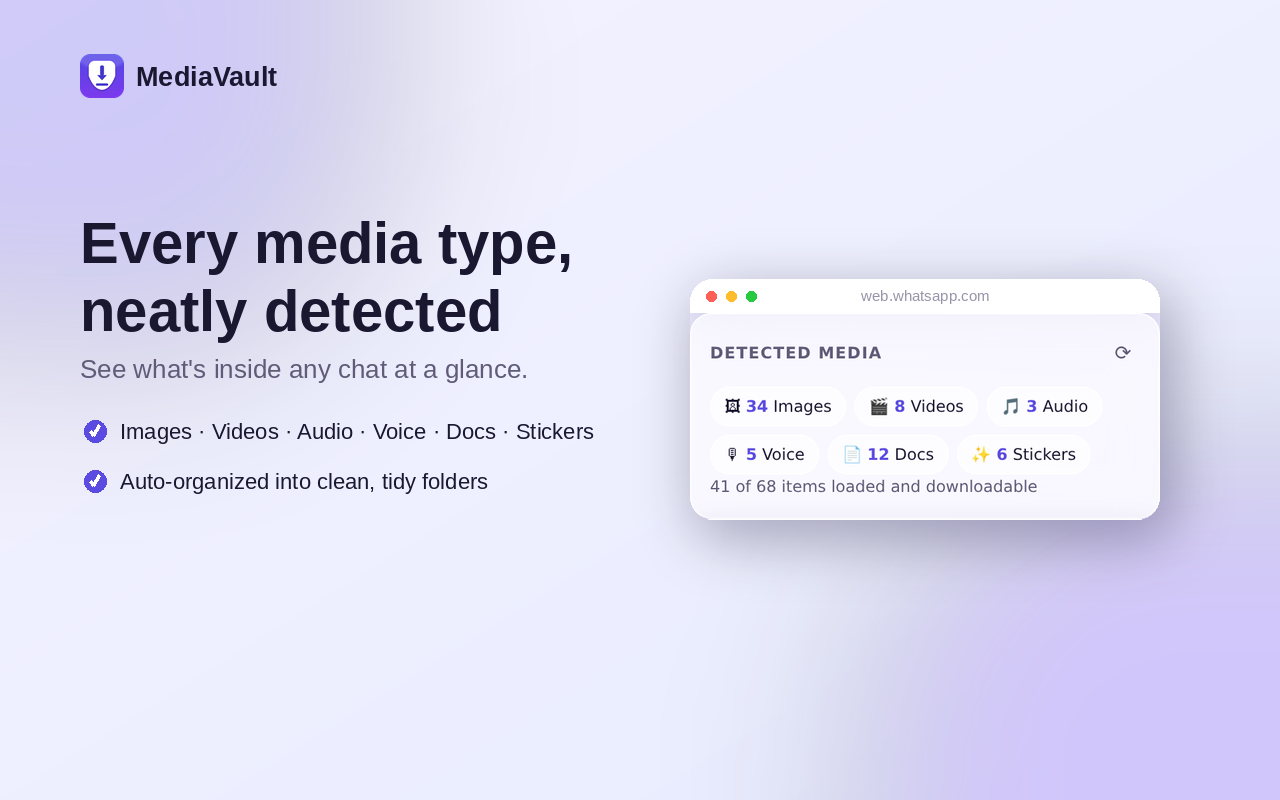
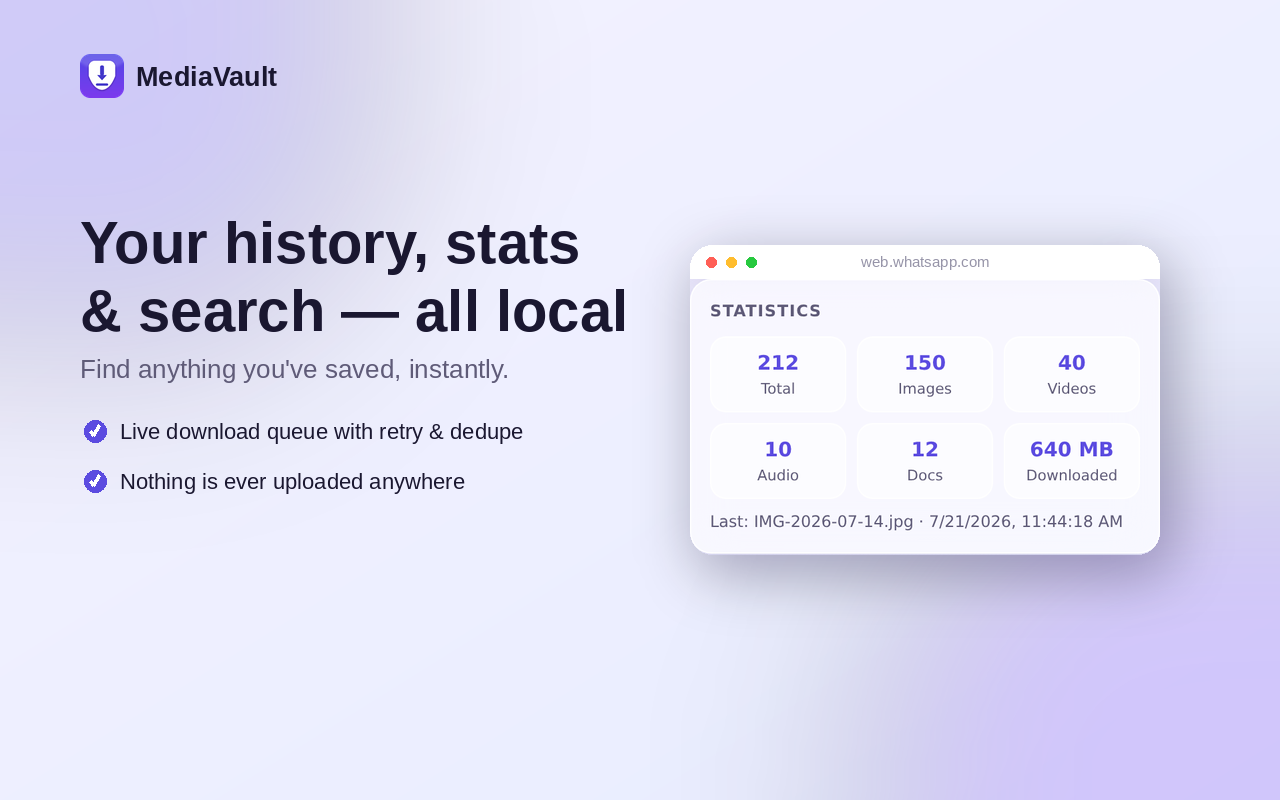
Make v1 fully free (no paywall) + one comprehensive SUBMISSION.md
Simplifies the launch to: publish a 100%-free build first, add the paid
version later.

- Add a `paid` build flag (utils/config.js). v1 = engine off + paid off:
  no account/upgrade card, no Pro locks, no download limit, and the manifest
  drops the Gumroad host permission (v1 asks for only downloads/storage/
  activeTab/tabs/notifications on web.whatsapp.com).
- background.js skips the quota gate when the build is unpaid; popup/options
  hide all monetization UI and unlock every feature when paid=false.
- build.sh: v1 = free build (1.0.0), v2 = paid engine build (2.0.0).
- manifest name/description no longer claim chat-transcript export (a v2-only
  feature), so the free v1 listing matches the shipped build.
- Regenerate v1-accurate store screenshots + promo/marquee (no pricing, no
  engine); archive the v2 graphics under store/screenshots-v2 / promo-v2.
- SUBMISSION.md: single start-here guide with every field inline, asset links,
  and a simplified payment recommendation (ExtensionPay or Dodo Payments) for
  the later paid version. README/LAUNCH point to it.

Claude-Session: https://claude.ai/code/session_014Q5UmM4KFZFXDrzMgHM8m1

diff --git a/utils/config.js b/utils/config.js
@@ -5,14 +5,18 @@
  *
  * MediaVault ships in two builds from one codebase (see build.sh):
  *
- *   v2 (full)     engine = true  — includes the WhatsApp-engine mode
- *                 (whole-history export, ZIP, chat-text export) which
- *                 uses WhatsApp's internal APIs.
- *   v1 (DOM-only) engine = false — only the rendered-DOM features
- *                 (single/bulk downloads, auto-scroll, filters). The
- *                 engine files, the `scripting` permission and the
- *                 web-accessible resources are omitted from the package,
- *                 and the "Download by chat" card is hidden.
+ *   v1 (free)  engine = false, paid = false
+ *              The DOM-only, 100% free build submitted to the store
+ *              first. No WhatsApp-engine mode and no paywall: the
+ *              engine files, the `scripting` permission, the Gumroad
+ *              host permission and the web-accessible resources are all
+ *              omitted, the "Download by chat" card is hidden, and every
+ *              feature is unlocked with no download limit.
+ *
+ *   v2 (pro)   engine = true, paid = true
+ *              Adds the WhatsApp-engine mode (whole-history export, ZIP,
+ *              chat-text export — uses WhatsApp's internal APIs) and the
+ *              freemium paywall (50 free downloads, then Pro).
  *
  * build.sh regenerates this file per target; the value committed here
  * is the full (v2) default used when the repo is loaded unpacked.
@@ -25,6 +29,7 @@
   root.WAMD = root.WAMD || {};
   root.WAMD.config = {
     engine: true,
+    paid: true,
     proFeaturesShort: 'whole-chat export, ZIP, filters & more',
     proFeaturesLong: 'whole-chat history export, Save-as-ZIP, chat text (.txt) ' +
       'export, date & sender filters, auto-scroll loading, folder organisation ' +

diff --git a/background.js b/background.js
@@ -20,11 +20,12 @@
 'use strict';
 
 // Shared classic-script modules (same files the content script uses).
-importScripts('utils/helpers.js', 'utils/storage.js', 'utils/license.js');
+importScripts('utils/helpers.js', 'utils/storage.js', 'utils/license.js', 'utils/config.js');
 
 const helpers = globalThis.WAMD.helpers;
 const store = globalThis.WAMD.storage;
 const license = globalThis.WAMD.license;
+const cfg = globalThis.WAMD.config;
 
 /** Maximum automatic retry attempts per failed item. */
 const MAX_RETRIES = 3;
@@ -95,7 +96,8 @@ async function enqueue(payload) {
   // unlimited and never counted). Over the limit → refuse and prompt upgrade.
   // Batch accounting for refused items is handled by the caller, which stops
   // the batch and adjusts its total — so we don't touch the batch here.
-  const slot = await reserveSlot();
+  // The fully-free (v1) build has no paywall, so downloads are never gated.
+  const slot = cfg.paid ? await reserveSlot() : { ok: true, pro: true };
   if (!slot.ok) {
     notifyQuota(settings, slot);
     broadcastQueue();

diff --git a/popup/popup.js b/popup/popup.js
@@ -64,6 +64,15 @@
 
   /** Pull the licence/quota status from the background and render it. */
   async function refreshLicense() {
+    // Fully-free (v1) build: no paywall at all — hide the upgrade card and
+    // unlock every feature with no download limit.
+    if (!config.paid) {
+      $('account-card').classList.add('hidden');
+      $('plan-tag').hidden = true;
+      proState = { pro: true, used: 0, limit: 0, remaining: Infinity, plan: 'free' };
+      applyProLocks();
+      return;
+    }
     const res = await send({ type: 'WAMD_LICENSE_STATUS' });
     if (res && res.ok) proState = res.result;
     renderAccount();

diff --git a/options/options.js b/options/options.js
@@ -45,6 +45,12 @@
 
   /** Load the licence status and render the Pro card + feature locks. */
   async function refreshLicense() {
+    // Fully-free (v1) build: no paywall — hide the Pro card, unlock settings.
+    if (!config.paid) {
+      $('pro-card').classList.add('hidden');
+      applyProLocks(true);
+      return;
+    }
     const res = await send({ type: 'WAMD_LICENSE_STATUS' });
     const s = (res && res.ok) ? res.result : { pro: false, used: 0, limit: license.FREE_LIMIT };
     renderLicense(s);

diff --git a/SUBMISSION.md b/SUBMISSION.md
@@ -1,0 +1,207 @@
+# MediaVault — Start-Here Submission Guide
+
+**The simple plan:** ship a **100% free** version to the Chrome Web Store now.
+No payments, no license, nothing to configure. Once it's approved and live, we
+add the premium version as an update. That's it.
+
+- **Now → Part 1:** publish the free build. ~45 minutes + Google's review.
+- **Later → Part 2:** add the paid engine version. Nothing to do today.
+
+Everything you need is in this repo. This document has every field, and where to
+find every image.
+
+---
+
+## Part 1 — Publish the FREE version (do this now)
+
+### What you're uploading
+
+**File:** `dist/mediavault-v1-v1.0.0.zip` — built by running `./build.sh v1`
+(or `./build.sh` to build both). It's the free, DOM-only build: it only asks for
+5 basic permissions on `web.whatsapp.com`, has no paywall, and every feature is
+free. This is the lowest-risk thing you can submit.
+
+> Rebuild anytime with `./build.sh v1`. The zip is also attached in chat.
+
+### Step 1 — Create your developer account (one time)
+
+1. Go to **https://chrome.google.com/webstore/devconsole**
+2. Pay the **one-time $5** registration fee.
+3. Set a **support email** (it shows on the listing).
+
+### Step 2 — Upload & fill the listing
+
+Click **New item → upload `dist/mediavault-v1-v1.0.0.zip`**, then paste:
+
+**Store title** (this comes from the zip automatically, no need to type):
+```
+MediaVault - WhatsApp Web Media Downloader
+```
+
+**Summary / short description** (also auto-filled from the zip; 132-char max):
+```
+Download & back up images, videos, voice notes, audio, documents, GIFs and stickers from WhatsApp Web. Fast, private, on-device.
+```
+
+**Category:** `Productivity`  **Language:** `English`
+
+**Detailed description** — paste this:
+```
+MediaVault is the fastest, most private way to save and back up your own media from WhatsApp Web — images, videos, voice notes, audio, documents, GIFs and stickers.
+
+No more right-click-save on one photo at a time. Open web.whatsapp.com, click the MediaVault icon, and save everything in the open chat at once — completely free.
+
+★ WHAT YOU CAN DO
+• Download images, videos, voice notes, audio, documents, GIFs & stickers
+• One-click save from the full-screen media viewer
+• Bulk-download the open chat, filtered by date range or by sender
+• Auto-scroll a conversation to load and save older media hands-free
+• Auto-organize files into tidy folders: WhatsApp / Chat / Images, Videos, …
+• Smart duplicate detection so you never save the same file twice
+• A live download queue with progress, retry and cancel
+• Searchable history and download statistics
+• Beautiful light & dark themes
+
+★ WHY MEDIAVAULT
+• Private by design — your messages and media never leave your device. No servers, no analytics, no tracking.
+• On-device processing — files go straight from your WhatsApp Web tab to your Downloads folder.
+• Lightweight, fast, and free — no account required.
+
+★ HOW IT WORKS
+1. Install MediaVault and open web.whatsapp.com (log in as usual).
+2. Click the MediaVault toolbar icon.
+3. Save single items from the viewer, or bulk-download the whole open chat.
+4. Files land in your Downloads folder, neatly named and organized.
+
+★ PRIVACY
+MediaVault does all its work locally in your browser. It does not upload, read, store or transmit your conversations anywhere. It makes no external network requests.
+
+★ GOOD TO KNOW
+MediaVault is an independent tool and is not affiliated with, endorsed by, or sponsored by WhatsApp LLC or Meta Platforms, Inc. "WhatsApp" is a trademark of its respective owner, used only to describe compatibility. Please back up your own conversations and respect other people's privacy and WhatsApp's Terms of Service.
+```
+
+**Single-purpose description** — paste this:
+```
+MediaVault has a single purpose: to let users download and back up their own media (images, videos, audio, voice notes, documents, GIFs, stickers) from WhatsApp Web to their local device.
+```
+
+### Step 3 — Graphics (drag-and-drop from these folders)
+
+| What | Where | Size |
+|---|---|---|
+| Screenshots (upload all 4) | `store/screenshots/screenshot_1..4.png` | 1280×800 |
+| Small promo tile | `store/promo/promo_tile_440x280.png` | 440×280 |
+| Marquee promo tile | `store/promo/marquee_1400x560.png` | 1400×560 |
+| Store icon | already inside the zip (`icon128.png`) | 128×128 |
+
+Optional screenshot captions:
+1. Bulk-download any WhatsApp media in one click
+2. Every media type, neatly detected
+3. Your history, stats & search — all local
+4. Private by design — nothing leaves your device
+
+### Step 4 — Permissions justifications
+
+The dashboard asks why you need each permission. Paste these:
+
+| Permission | Justification |
+|---|---|
+| `downloads` | Save the user's selected media to their computer via the browser's download manager. |
+| `storage` | Store the user's settings and local download history/statistics. |
+| `activeTab` / `tabs` | Find the user's open WhatsApp Web tab so the popup can request media from it. |
+| `notifications` | Optional desktop alerts when downloads complete, fail or a batch finishes. |
+| Host `https://web.whatsapp.com/*` | The only site the extension reads media from; it runs nowhere else. |
+
+> The free build asks for **nothing else** — no `scripting`, no payment host, no
+> remote code.
+
+### Step 5 — Privacy
+
+1. **Privacy policy URL** (required): publish `PRIVACY.md` on a public page and
+   paste the link. Easiest options:
+   - GitHub Pages: Settings → Pages → enable, then link to the rendered file; or
+   - paste `PRIVACY.md` into a public GitHub Gist and use its URL.
+2. **Privacy practices tab** — answer:
+   - Data collected? **None.** MediaVault processes media locally and sends
+     nothing to any server.
+   - Selling/transferring data to third parties? **No.**
+   - Using data unrelated to the single purpose? **No.**
+   - Remote code? **No** — all code is in the package.
+
+### Step 6 — Submit
+
+Click **Submit for review**. Reviews take a few business days.
+
+If it's rejected, the email cites the exact policy. The two most common fixes:
+trademark wording in the title (alternatives are in `store/listing.md`) or a
+permission justification. Tweak and resubmit — no code change needed.
+
+**✅ That's the whole free launch. You're done until it's approved.**
+
+---
+
+## Part 2 — Add the paid version (LATER, after v1 is live)
+
+Nothing to do now. When you're ready to earn from it:
+
+1. I build the paid version: `./build.sh v2` → `dist/mediavault-v2-v2.0.0.zip`.
+   It adds whole-chat history export, ZIP, chat-text (.txt) export, and a simple
+   paywall (some downloads free, then a one-time or monthly upgrade).
+2. You upload it as an **update to the same store item** (Package → new version),
+   and switch the listing to the v2 description/screenshots (archived for you in
+   `store/screenshots-v2/` and `store/listing.md`).
+3. You connect a payment provider (below). I wire it — it's a small change.
+
+### Payment gateway — the two easy options
+
+You don't need Gumroad's complicated setup. Pick **one** when the time comes:
+
+**Option A — ExtensionPay  (easiest for your customers)**
+- The customer clicks "Upgrade" **inside the extension**, pays, and it unlocks
+  instantly. **No license keys to copy or paste.**
+- Built specifically for Chrome extensions, so it's the least code for me to wire.
+- You connect a Stripe account; you're the merchant (you handle your own tax —
+  fine at small scale).
+- Best if you want the smoothest possible customer experience.
+
+**Option B — Dodo Payments  (easiest for you, zero tax hassle)**
+- A "Merchant of Record" — **Dodo handles global sales tax/VAT for you**, so you
+  never deal with tax compliance.
+- Simple hosted checkout link + a licence key the customer pastes once in
+  Settings (already built in the paid build).
+- Modern, developer-friendly API; similar to Lemon Squeezy/Paddle.
+- Best if you want to sell worldwide with zero paperwork.
+
+**My recommendation:** start with **ExtensionPay** for the frictionless customer
+flow (no keys). If handling tax yourself ever becomes a worry as sales grow,
+switch to **Dodo Payments** — the code is written so swapping providers is a
+small, isolated change.
+
+> When you're ready, just tell me "wire ExtensionPay" (or Dodo) and which price
+> (e.g. one-time $24.99, or $4.99/month). I'll do the rest and rebuild.
+
+---
+
+## File map (everything, at a glance)
+
+```
+dist/mediavault-v1-v1.0.0.zip     ← FREE build — upload this now
+dist/mediavault-v2-v2.0.0.zip     ← PAID build — for later
+
+store/screenshots/                ← v1 screenshots (upload these now)
+store/promo/                      ← v1 promo tile + marquee (now)
+store/screenshots-v2/  · promo-v2/← v2 graphics (for the update later)
+store/listing.md                  ← all listing copy (v1 + v2 variants)
+store/gumroad/                    ← Gumroad page assets (only if you use Gumroad)
+
+PRIVACY.md                        ← privacy policy (host it, link it)
+assets/icons/                     ← 16/32/48/128/512 icons
+build.sh                          ← ./build.sh v1  |  v2  |  (both)
+```
+
+Build commands:
+```bash
+./build.sh v1     # free build  → dist/mediavault-v1-v1.0.0.zip
+./build.sh v2     # paid build  → dist/mediavault-v2-v2.0.0.zip
+./build.sh        # both
+```

diff --git a/store/listing.md b/store/listing.md
@@ -43,19 +43,22 @@ English (add more locales later for reach).
 
 ---
 
-> **Two-phase submission.** Submit the **v1 (DOM-only)** package first with the
-> **v1 description** below (it doesn't advertise the engine-only features that
-> aren't in the v1 build — reviewers flag listing/feature mismatches). When the
+> **Start here:** the simple, step-by-step submission guide with all copy inline
+> is **`SUBMISSION.md`** in the repo root. This file is the reference for both
+> the free **v1** and the paid **v2** listings.
+>
+> **Two-phase submission.** Submit the **free v1** package first with the **v1
+> description** below (it advertises only what the free build does — no pricing,
+> no engine-only features; reviewers flag listing/feature mismatches). When the
 > **v2** package is approved as an update, swap in the full description that
-> follows. Everything else in this file (title, permissions, privacy) is the
-> same for both.
+> follows. Title, permissions and privacy are otherwise the same.
 
-## Detailed description — v1 (DOM-only, first submission)
+## Detailed description — v1 (free, first submission)
 
 ```
 MediaVault is the fastest, most private way to save and back up your own media from WhatsApp Web — images, videos, voice notes, audio, documents, GIFs and stickers.
 
-No more right-click-save on one photo at a time. Open web.whatsapp.com, click the MediaVault icon, and grab everything in the open chat at once.
+No more right-click-save on one photo at a time. Open web.whatsapp.com, click the MediaVault icon, and save everything in the open chat at once — completely free.
 
 ★ WHAT YOU CAN DO
 • Download images, videos, voice notes, audio, documents, GIFs & stickers
@@ -71,17 +74,18 @@ No more right-click-save on one photo at a time. Open web.whatsapp.com, click th
 ★ WHY MEDIAVAULT
 • Private by design — your messages and media never leave your device. No servers, no analytics, no tracking.
 • On-device processing — files go straight from your WhatsApp Web tab to your Downloads folder.
-• Lightweight and fast — no account required to start.
-
-★ FREE & PRO
-MediaVault is free to start: your first 50 downloads are on us. Upgrade to Pro for unlimited downloads plus power features — auto-scroll history loading, date & sender filters, folder organization and custom file naming. Pro is $4.99/month (cancel anytime) or a one-time $24.99 lifetime licence.
+• Lightweight, fast, and free — no account required.
 
 ★ PRIVACY
-MediaVault does all its work locally in your browser. It does not upload, read, store or transmit your conversations anywhere. The only network request it makes is a licence check when you activate Pro — and that sends nothing but your licence key.
+MediaVault does all its work locally in your browser. It does not upload, read, store or transmit your conversations anywhere. It makes no external network requests.
 
 ★ GOOD TO KNOW
 MediaVault is an independent tool and is not affiliated with, endorsed by, or sponsored by WhatsApp LLC or Meta Platforms, Inc. "WhatsApp" is a trademark of its respective owner, used here only to describe compatibility. Please back up your own conversations and respect other people's privacy and WhatsApp's Terms of Service.
 ```
+
+> The free v1 build requests only `downloads`, `storage`, `activeTab`, `tabs`,
+> `notifications` and host access to `web.whatsapp.com` — no `scripting`, no
+> payment host, no web-accessible resources.
 
 ## Detailed description — v2 (full, use after v2 is approved)
 

diff --git a/README.md b/README.md
@@ -269,13 +269,16 @@ Two store-ready builds come from this one codebase:
 ./build.sh          # builds both
 ```
 
-**v1** ships only the rendered-DOM features (single/bulk downloads, auto-scroll,
-filters) — it drops the `scripting` permission, the WhatsApp-engine files and the
-web-accessible resources, and hides the "Download by chat" card. It carries the
-lowest review risk, so submit it first. **v2** adds the internal-API engine mode
-(whole-history export, ZIP, chat-text export) and is uploaded as an update to the
-same store item once v1 is live. See [`LAUNCH.md`](LAUNCH.md) for the full
-phased publish + monetization walkthrough.
+**v1** is the **free** build: only rendered-DOM features (single/bulk downloads,
+auto-scroll, filters), no paywall, and no `scripting`/payment/web-accessible
+permissions. Submit it first — lowest review risk. **v2** is the **paid** build:
+it adds the internal-API engine mode (whole-history export, ZIP, chat-text
+export) plus the freemium paywall, uploaded as an update to the same store item
+once v1 is live.
+
+👉 **Start with [`SUBMISSION.md`](SUBMISSION.md)** — the step-by-step guide to
+publishing the free version (every field, all copy, asset links). Payment options
+for v2 are covered there and in [`LAUNCH.md`](LAUNCH.md).
 
 ## Testing
 

diff --git a/LAUNCH.md b/LAUNCH.md
@@ -1,5 +1,10 @@
 # MediaVault — Launch, Submission & Monetization Roadmap
 
+> **Just want to publish?** Start with **[`SUBMISSION.md`](SUBMISSION.md)** — the
+> short, do-this-now guide for shipping the free version. This file is the deeper
+> reference for the paid v2 rollout and payment options.
+
+
 A step-by-step runbook to take MediaVault from this repo to a **paid, published**
 Chrome Web Store extension, using a **two-phase** rollout that minimises the risk
 of rejection.
